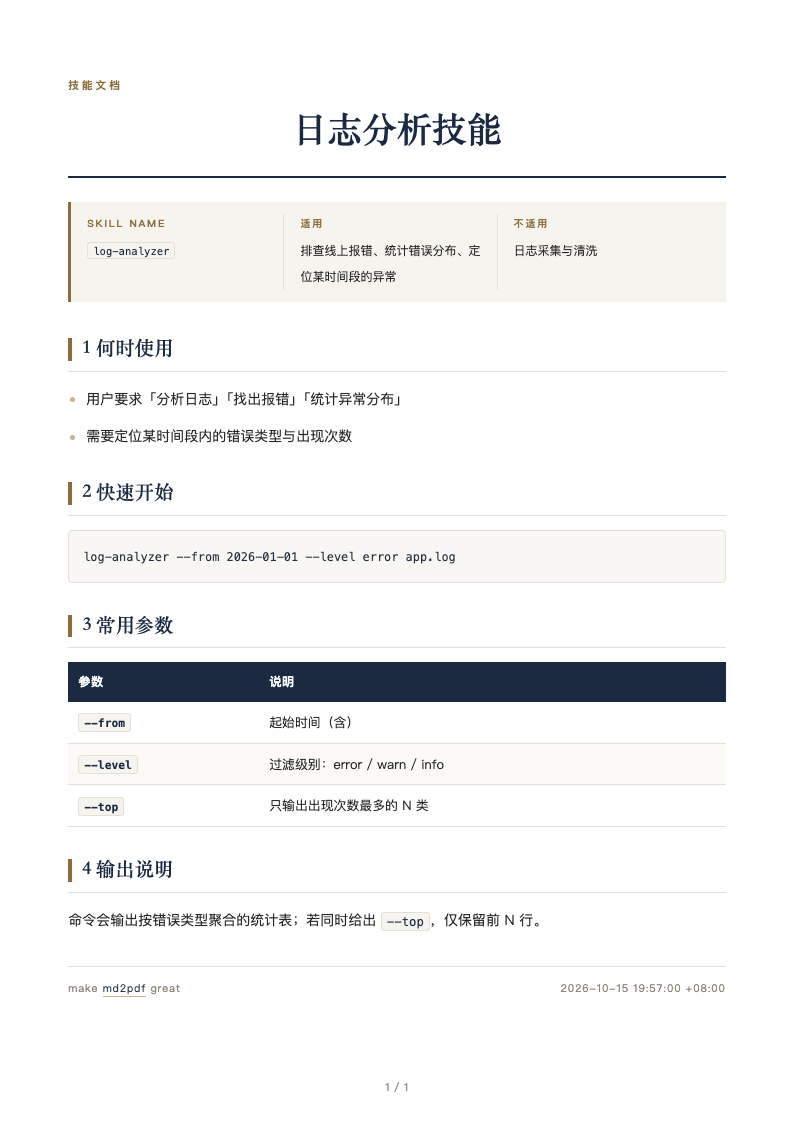
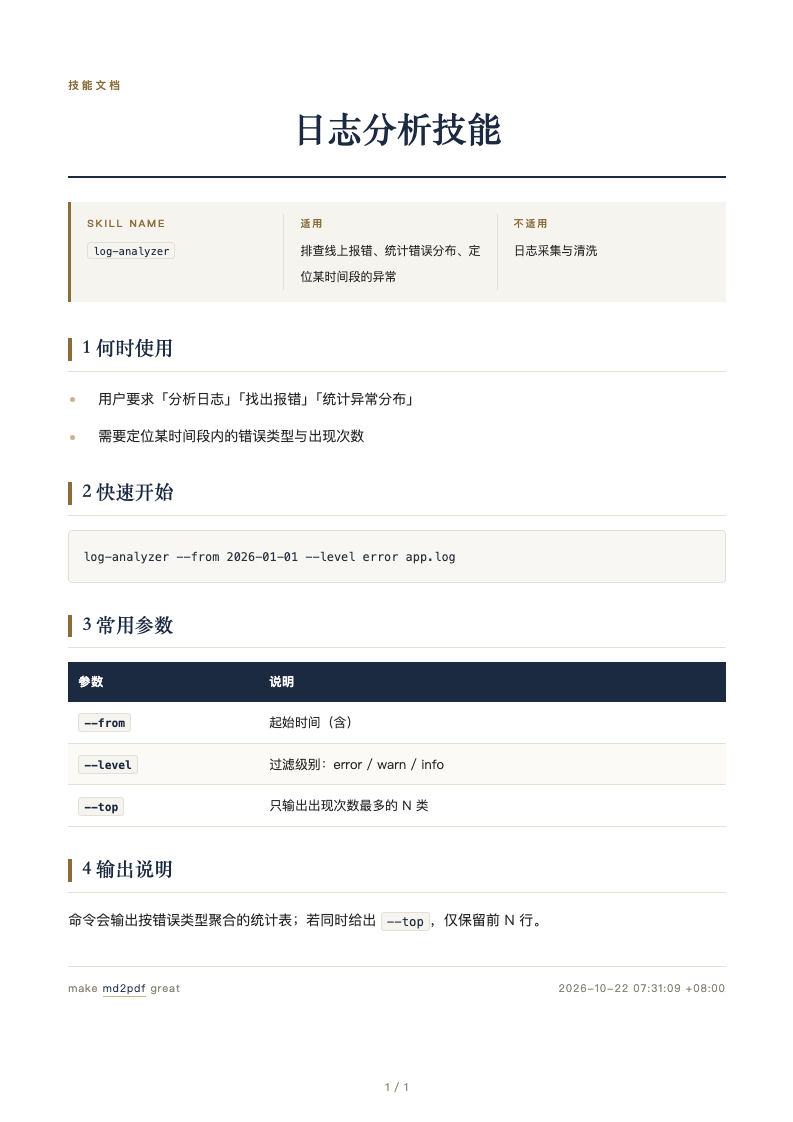
feat(template): unify task lists and default general to Chinese numbering

Changed region(s): [[0.0908, 0.3431, 0.5145, 0.4055], [0.6961, 0.8734, 0.8172, 0.9046]]

diff --git a/assets/base.css b/assets/base.css
@@ -170,7 +170,7 @@ ol > li::before {
   font-family: var(--font-mono); font-size: .82em; font-weight: 700;
 }
 ul { list-style: none; }
-ul > li { position: relative; padding-left: 18px; margin-bottom: 11px; text-align: justify; }
+ul > li { position: relative; padding-left: 30px; margin-bottom: 11px; text-align: justify; }
 ul > li:last-child { margin-bottom: 0; }
 ul > li::before {
   content: ""; position: absolute; left: 2px; top: .82em;
@@ -178,6 +178,15 @@ ul > li::before {
 }
 li > ul, li > ol { margin: 8px 0 0; }
 li p { margin-bottom: 6px; }
+
+/* 任务勾选框替代列表标记，正文继承所在主题的列表缩进。 */
+li:has(> input[type="checkbox"]), li:has(> p > input[type="checkbox"]) { list-style: none; }
+li:has(> input[type="checkbox"])::before,
+li:has(> p > input[type="checkbox"])::before { display: none !important; }
+li > input[type="checkbox"], li > p > input[type="checkbox"] {
+  position: absolute; left: var(--task-marker-left, 0px); top: .45em;
+  width: 1em; height: 1em; margin: 0; accent-color: var(--ink-soft);
+}
 
 /* ---------- 行内 ---------- */
 strong { color: var(--ink); font-weight: 600; }

diff --git a/assets/themes/minimal.css b/assets/themes/minimal.css
@@ -18,6 +18,7 @@
   --font-mono: "SF Mono", "Menlo", "Consolas", monospace;
 
   --masthead-border: none;
+  --task-marker-left: -1.6em;
 }
 
 .kicker { color: var(--muted); letter-spacing: 0; }
@@ -53,13 +54,6 @@ ol { list-style: decimal; padding-left: 1.6em; }
 ul { list-style: disc; padding-left: 1.6em; }
 ul ul { list-style: circle; }
 ul ul ul { list-style: square; }
-ul > li:has(> input[type="checkbox"]),
-ul > li:has(> p > input[type="checkbox"]) { list-style: none; }
-/* 勾选框放入标记栏，任务正文与同层普通列表保持同一起点。 */
-li > input[type="checkbox"], li > p > input[type="checkbox"] {
-  position: absolute; left: -1.6em; top: .45em;
-  width: 1em; height: 1em; margin: 0; accent-color: var(--ink-soft);
-}
 ol > li, ul > li { padding-left: 0; }
 /* 在线分页会添加序号伪元素；原生标记保留 start/value，避免重复显示。 */
 ol > li::before, ul > li::before { display: none !important; }

diff --git a/assets/themes/gb.css b/assets/themes/gb.css
@@ -28,6 +28,7 @@
   --font-mono: "SF Mono", "Menlo", "Consolas", monospace;
 
   --masthead-border: none;
+  --task-marker-left: -1.4em;
 
   /* 封面标准名称：官方封面嵌入字体为方正小标宋（FZXBSK），缺失时回退华文中宋/宋体 */
   --font-title: "方正小标宋_GBK", "方正小标宋", "STZhongsong", "Songti SC", serif;

diff --git a/README.md b/README.md
@@ -146,7 +146,7 @@ md2pdf 文件名.md --theme minimal --toc
 | `-t, --toc` | 文首插入目录页（取自 H2），条目可点击跳转 |
 | `--bibliography-title <text>` | 参考文献自动渲染；设置章节标题，默认“参考文献”，空字符串隐藏标题 |
 | `--numbering <mode>` | 章节编号：`auto`（默认，识别到已有编号则不动）｜ `force`（强制）｜ `none`（不加） |
-| `--number-scheme <n>` | 编号方案：`arabic`（默认，`1` / `1.1`）｜ `gb`（章条制）｜ `cjk`（`一、` / `（一）`）｜ `chapter`（`第1章`）
+| `--number-scheme <n>` | 编号方案：`arabic`（`1` / `1.1`）｜ `gb`（章条制）｜ `cjk`（通用文档默认，`一、` / `（一）`）｜ `chapter`（`第1章`）
 | `--enable link-urls` | 正文链接后附 URL（纸质可读） |
 | `--enable landscape` / `--font-size <pt>` / `--margin <mm>` | 横向 / 字号（默认 10.5）/ 页边距（默认 20；可写 "20,18" = 上下,左右） |
 | `--footer-left <text>` / `--footer-center <text>` / `--footer-right <text>` | 设置页脚文字；中间未指定时显示页码；`--disable footer` 关闭整个页脚 |

diff --git a/docs/configuration.md b/docs/configuration.md
@@ -1,5 +1,7 @@
 # 文档配置与兼容迁移
 
+通用文档默认采用中文编号方案（`number-scheme: cjk`，如“一、”“（一）”）；frontmatter 或显式选项仍可选择其他方案。学术论文、技能文档和国家标准的默认方案保持不变。
+
 ## 配置优先级
 
 CLI 显式参数或 Web App 显式控件 → frontmatter → 文档类型默认 → 全局默认。
